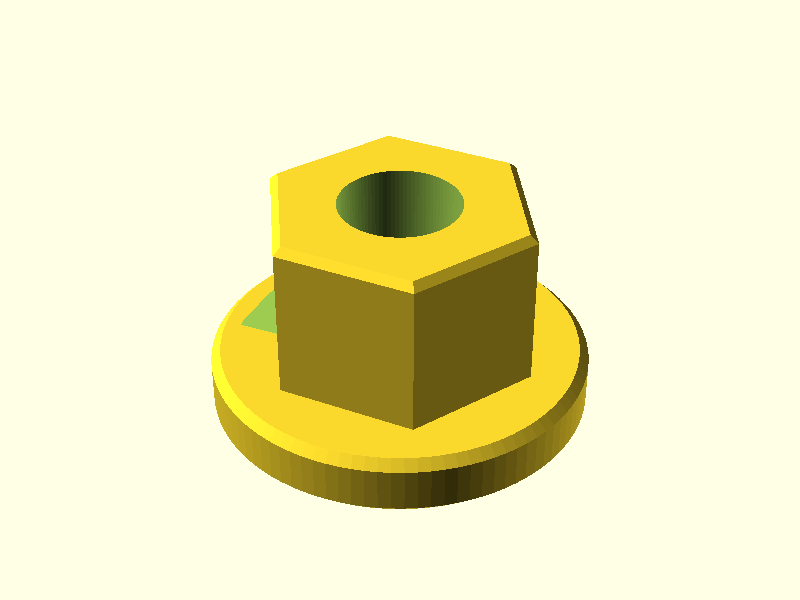
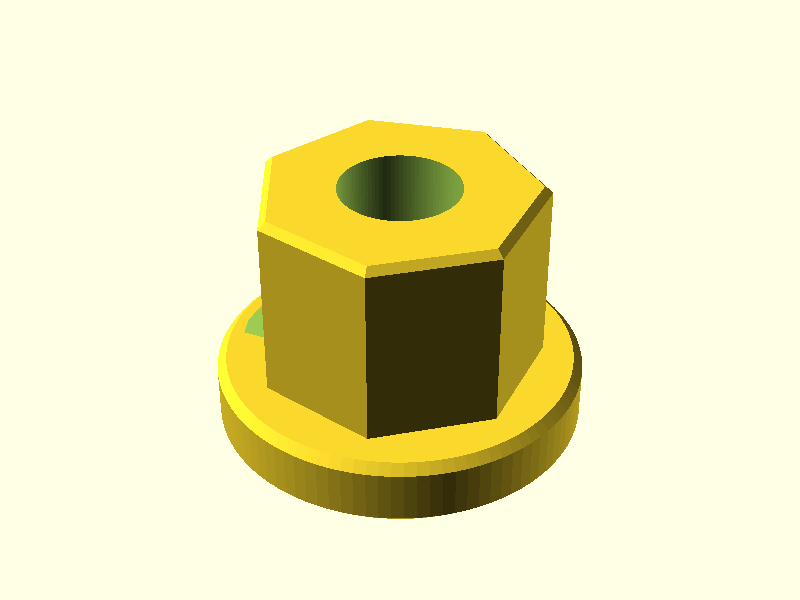
Shower handle adapter: 7-sided boss (15.09 caliper width), render STL and preview

Changed region(s): [[0.25, 0.18, 0.75, 0.87], [0.6875, 0.75, 0.7188, 0.78], [0.2812, 0.75, 0.3125, 0.78]]

diff --git a/shower-handle-holder/README.md b/shower-handle-holder/README.md
@@ -18,7 +18,7 @@ Printable replacement for the small plastic or brass adapter between a shower or
 
 Bottom to top:
 - **Flange** with an **obround socket** (elongated, rounded ends) from below, long axis pointing at the window. The socket has a bevelled entry and goes up to the window ceiling.
-- **Hex boss** with a **round bore** from the top, down to the window ceiling.
+- **7-sided boss** (not a hex) with a **round bore** from the top, down to the window ceiling. A corner points at the window.
 - **Window:** one side only, on a hex **corner**. Its floor is the flange top, and it reaches just past the centre.
 
 `cutaway = true` shows the section.
@@ -31,7 +31,7 @@ Calipers are best. Write down each number and put it into the matching parameter
 |---|---|---|---|
 | 1 | Flange outside diameter | `flange_d` | 20.0 |
 | 2 | Flange thickness | `flange_h` | 3.8 |
-| 3 | Hex across the **flats**. If the old part is damaged, measure the handle's socket instead | `hex_af` | **15.19 measured** (worn part) |
+| 3 | Boss width with calipers, turning the part between readings. It is **7-sided**: an odd count gives the same flat-to-corner width at every turn | `boss_sides`, `hex_af` | **7, 15.09 measured** (15.04 to 15.10) |
 | 4 | Overall height, flange bottom to hex top | `total_h` | **14.05 measured** |
 | 4a | Hex AF at the flange vs at the top. The original looks skewed on purpose, to wedge into the handle | `hex_taper` | 0 |
 | 5 | Window height | `window_h` | 2.6 |
@@ -48,7 +48,7 @@ Helpful photos: one straight at the window, one straight at the side opposite it
 
 The render prints a summary to check before slicing:
 
-    ECHO: "Adapter: flange 20 x 3.8, hex 15.04 AF (17.37 AC, taper 0) x 10.25, total 14.05, stem bore 6.54, window 4.5->3.8 x 2.6 at 180 deg (corner)"
+    ECHO: "Adapter: flange 20 x 3.8, 7-sided boss 14.94 wide (15.72 across corners, taper 0) x 10.25, total 14.05, stem bore 6.54, window 4.5->3.8 x 2.6 at 180 deg (corner)"
 
 ## Fit tests before the full part
 
